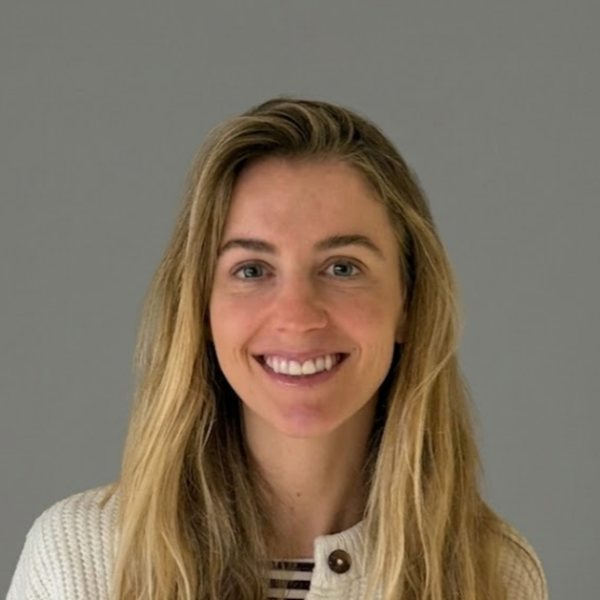
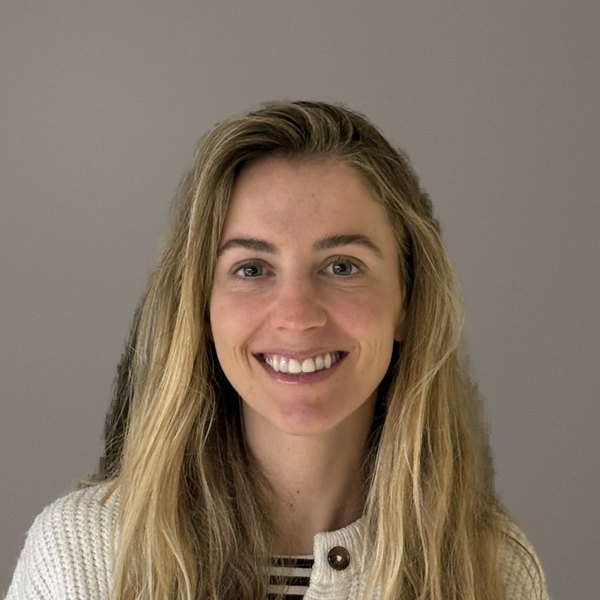
Equipo: foto nueva de Marta con fondo unificado, cargos de Miquel y Marta
Claude-Session: https://claude.ai/code/session_01GCRyzbLymN6Pgprcy3YpCp

diff --git a/src/data/content.ca.js b/src/data/content.ca.js
@@ -124,7 +124,7 @@ export const faqs = [
   { q: 'Puc contractar-vos només per a una fase?', a: "Sí. Pots començar per la viabilitat, el projecte, l'obra o l'FF&E i el lliurament, i t'acompanyem fins al final." },
 ];
 export const clients = es.clients;
-const peopleRole = {'BIM Manager y Estudios de Viabilidad': 'BIM Manager i Estudis de Viabilitat', 'Arquitectura y diseño de interiores': 'Arquitectura i disseny d’interiors', 'Responsable de Planificación y Procesos': 'Responsable de Planificació i Processos', 'Responsable de Calidad y Trámites': 'Responsable de Qualitat i Tràmits', 'Arquitecto senior': 'Arquitecte sènior', 'Profesor de la Escuela de Arquitectura UIC': "Professor de l'Escola d'Arquitectura UIC", 'Project Manager': 'Project Manager', 'Arquitecta senior': 'Arquitecta sènior', 'Arquitecto senior': 'Arquitecte sènior', 'Interiorista': 'Interiorista', 'Arquitecta junior': 'Arquitecta júnior', 'Modeladora 3D': 'Modeladora 3D', 'Ingeniero': 'Enginyer', 'Arquitecta técnica': 'Arquitecta tècnica', 'Constructor': 'Constructor'};
+const peopleRole = {'Responsable de BIM y Estudios de Viabilidad': 'Responsable de BIM i Estudis de Viabilitat', 'Responsable de Diseño de Interiores': 'Responsable de Disseny d’Interiors', 'BIM Manager y Estudios de Viabilidad': 'BIM Manager i Estudis de Viabilitat', 'Arquitectura y diseño de interiores': 'Arquitectura i disseny d’interiors', 'Responsable de Planificación y Procesos': 'Responsable de Planificació i Processos', 'Responsable de Calidad y Trámites': 'Responsable de Qualitat i Tràmits', 'Arquitecto senior': 'Arquitecte sènior', 'Profesor de la Escuela de Arquitectura UIC': "Professor de l'Escola d'Arquitectura UIC", 'Project Manager': 'Project Manager', 'Arquitecta senior': 'Arquitecta sènior', 'Arquitecto senior': 'Arquitecte sènior', 'Interiorista': 'Interiorista', 'Arquitecta junior': 'Arquitecta júnior', 'Modeladora 3D': 'Modeladora 3D', 'Ingeniero': 'Enginyer', 'Arquitecta técnica': 'Arquitecta tècnica', 'Constructor': 'Constructor'};
 export const people = { staff: es.people.staff.map((x) => ({ ...x, role: peopleRole[x.role] ?? x.role, sub: x.sub && (peopleRole[x.sub] ?? x.sub), note: x.note && (peopleRole[x.note] ?? x.note) })), partners: es.people.partners.map((x) => ({ ...x, role: peopleRole[x.role] ?? x.role })) };
 
 export const statusLabels = { 'En obra': 'En obra', 'En licitación': 'En licitació', 'En viabilidad': 'En viabilitat' };

diff --git a/src/data/content.en.js b/src/data/content.en.js
@@ -124,7 +124,7 @@ export const faqs = [
   { q: 'Can I hire you for just one phase?', a: 'Yes. You can start with feasibility, design, construction or FF&E and handover, and we stay with you to the end.' },
 ];
 export const clients = es.clients;
-const peopleRole = {'BIM Manager y Estudios de Viabilidad': 'BIM Manager and Feasibility Studies', 'Arquitectura y diseño de interiores': 'Architecture and interior design', 'Responsable de Planificación y Procesos': 'Head of Planning and Processes', 'Responsable de Calidad y Trámites': 'Head of Quality and Permitting', 'Arquitecto senior': 'Senior architect', 'Profesor de la Escuela de Arquitectura UIC': 'Lecturer at the UIC School of Architecture', 'Project Manager': 'Project Manager', 'Arquitecta senior': 'Senior architect', 'Arquitecto senior': 'Senior architect', 'Interiorista': 'Interior designer', 'Arquitecta junior': 'Junior architect', 'Modeladora 3D': '3D modeller', 'Ingeniero': 'Engineer', 'Arquitecta técnica': 'Building surveyor', 'Constructor': 'Contractor'};
+const peopleRole = {'Responsable de BIM y Estudios de Viabilidad': 'Head of BIM and Feasibility Studies', 'Responsable de Diseño de Interiores': 'Head of Interior Design', 'BIM Manager y Estudios de Viabilidad': 'BIM Manager and Feasibility Studies', 'Arquitectura y diseño de interiores': 'Architecture and interior design', 'Responsable de Planificación y Procesos': 'Head of Planning and Processes', 'Responsable de Calidad y Trámites': 'Head of Quality and Permitting', 'Arquitecto senior': 'Senior architect', 'Profesor de la Escuela de Arquitectura UIC': 'Lecturer at the UIC School of Architecture', 'Project Manager': 'Project Manager', 'Arquitecta senior': 'Senior architect', 'Arquitecto senior': 'Senior architect', 'Interiorista': 'Interior designer', 'Arquitecta junior': 'Junior architect', 'Modeladora 3D': '3D modeller', 'Ingeniero': 'Engineer', 'Arquitecta técnica': 'Building surveyor', 'Constructor': 'Contractor'};
 export const people = { staff: es.people.staff.map((x) => ({ ...x, role: peopleRole[x.role] ?? x.role, sub: x.sub && (peopleRole[x.sub] ?? x.sub), note: x.note && (peopleRole[x.note] ?? x.note) })), partners: es.people.partners.map((x) => ({ ...x, role: peopleRole[x.role] ?? x.role })) };
 
 export const statusLabels = { 'En obra': 'Under construction', 'En licitación': 'Out to tender', 'En viabilidad': 'Feasibility' };

diff --git a/src/data/content.js b/src/data/content.js
@@ -145,8 +145,8 @@ export const people = {
   staff: [
     { name: 'Elisabeth Pino', role: 'Responsable de Planificación y Procesos', sub: 'Arquitecta senior' },
     { name: 'Arnau Carbó', role: 'Responsable de Calidad y Trámites', sub: 'Arquitecto senior', note: 'Profesor de la Escuela de Arquitectura UIC' },
-    { name: 'Miquel Marquès', role: 'BIM Manager y Estudios de Viabilidad', sub: 'Arquitecto senior' },
-    { name: 'Marta Cusí', role: 'Interiorista' },
+    { name: 'Miquel Marquès', role: 'Responsable de BIM y Estudios de Viabilidad', sub: 'Arquitecto senior' },
+    { name: 'Marta Cusí', role: 'Responsable de Diseño de Interiores', sub: 'Interiorista' },
     { name: 'Blanca de Prat', role: 'Arquitectura y diseño de interiores', sub: 'Arquitecta junior' },
     { name: 'Sofía Egido', role: 'Arquitectura y diseño de interiores', sub: 'Arquitecta junior' },
     { name: 'Andrea Peña', role: 'Modeladora 3D' },
